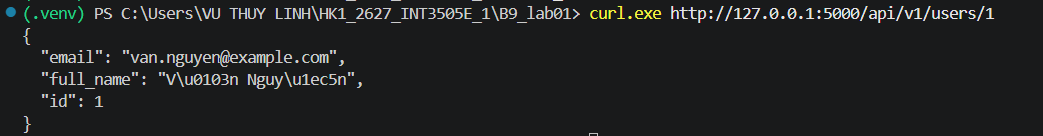
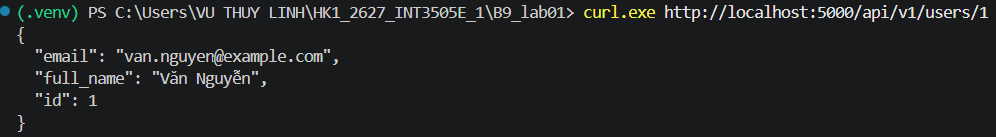
fix app and update img

diff --git a/B9_lab01/app.py b/B9_lab01/app.py
@@ -3,6 +3,8 @@ from blueprints.v1 import bp as v1_bp
 from blueprints.v2 import bp as v2_bp
  
 app = Flask(__name__)
+app.json.ensure_ascii = False
+
 app.register_blueprint(v1_bp, url_prefix="/api/v1/users")
 app.register_blueprint(v2_bp, url_prefix="/api/v2/users")
 
